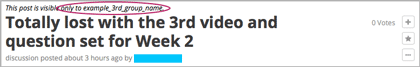
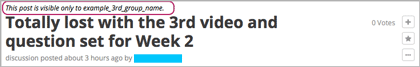
Improved images, text for identifying who can see

Changed region(s): [[0.0, 0.0, 0.4333, 0.2388]]

diff --git a/docs/en_us/course_authors/source/cohorts/cohorts_discussions.rst b/docs/en_us/course_authors/source/cohorts/cohorts_discussions.rst
@@ -5,43 +5,46 @@ Configuring and Moderating Discussions for Cohorts
 ###################################################
 
 
-For students and the moderation staff:
 
-For the moderation staff
-
-
-.. _:
 
 ********************************
 Identifying Who Can See a Post 
 ********************************
 
 In a course with the cohort feature enabled, all posts include a cohort
-indicator above the title. This indicator appears after the student or staff
-member adds the post. No configuration by the course
-team is necessary.
+indicator above the title. This indicator appears after a student or staff
+member adds each post. No configuration by the course team is necessary to
+include this identifier. You can share the information in the :ref:`Read the
+Cohort Indicator in Posts` section with your students.
 
-To identify whether a particular discussion topic is configured to support
-private interactions for cohort groups, or is open to everyone, the course team
-can apply naming conventions to the discussion topics.
+Course teams can name the discussion topics in a course to indicate who will be
+able to see posts to that topic. See :ref:`Apply Naming Conventions to
+ContentSpecific Topics` and :ref:`Apply Naming Conventions to CourseWide
+Topics`.
+
+.. _Read the Cohort Indicator in Posts:
 
 ==================================
 Read the Cohort Indicator in Posts
 ==================================
 
-Every post includes a sentence to identify whether everyone can see and
-contribute to it, or only the members of a specific cohort group.
+Every post includes a sentence that identifies whether everyone can see and
+contribute to it, or only the members of a cohort of students within the
+course.
 
 .. image:: ../Images/post_visible_all.png
- :alt: A discussion topic post with "This post is visible to everyone" under 
+ :alt: A discussion topic post with "This post is visible to everyone" above 
        the title
 
 .. image:: ../Images/post_visible_cohort.png
- :alt: A discussion topic post with "This post is visible to" and a cohort 
-        name
+ :alt: A discussion topic post with "This post is visible to" and a cohort name
+       above the title
 
-The students in every cohort as well as the discussion admins and moderators
-can see this identifier after a post is added. 
+You see this identifier after you add your post. The responses and comments
+that others contribute to a post are visible to the same group of people as the
+post itself.
+
+.. _Apply Naming Conventions to ContentSpecific Topics:
 
 =========================================================
 Apply Naming Conventions to Content-Specific Topics
@@ -59,8 +62,6 @@ like "(private)" or "(small group)" in the **Subcategory** name.
  :alt: The Subcategory name that you supply for a Discussion component in
        Studio appears on the dropdown lists of discussion topics in the live
        course
-
-.. I think this may be too busy, and should perhaps just highlight the role of the Subcategory 
 
 When students visit the **Discussion** page, the subcategory name cues the
 student that posts to those topics, and the responses and comments made to
